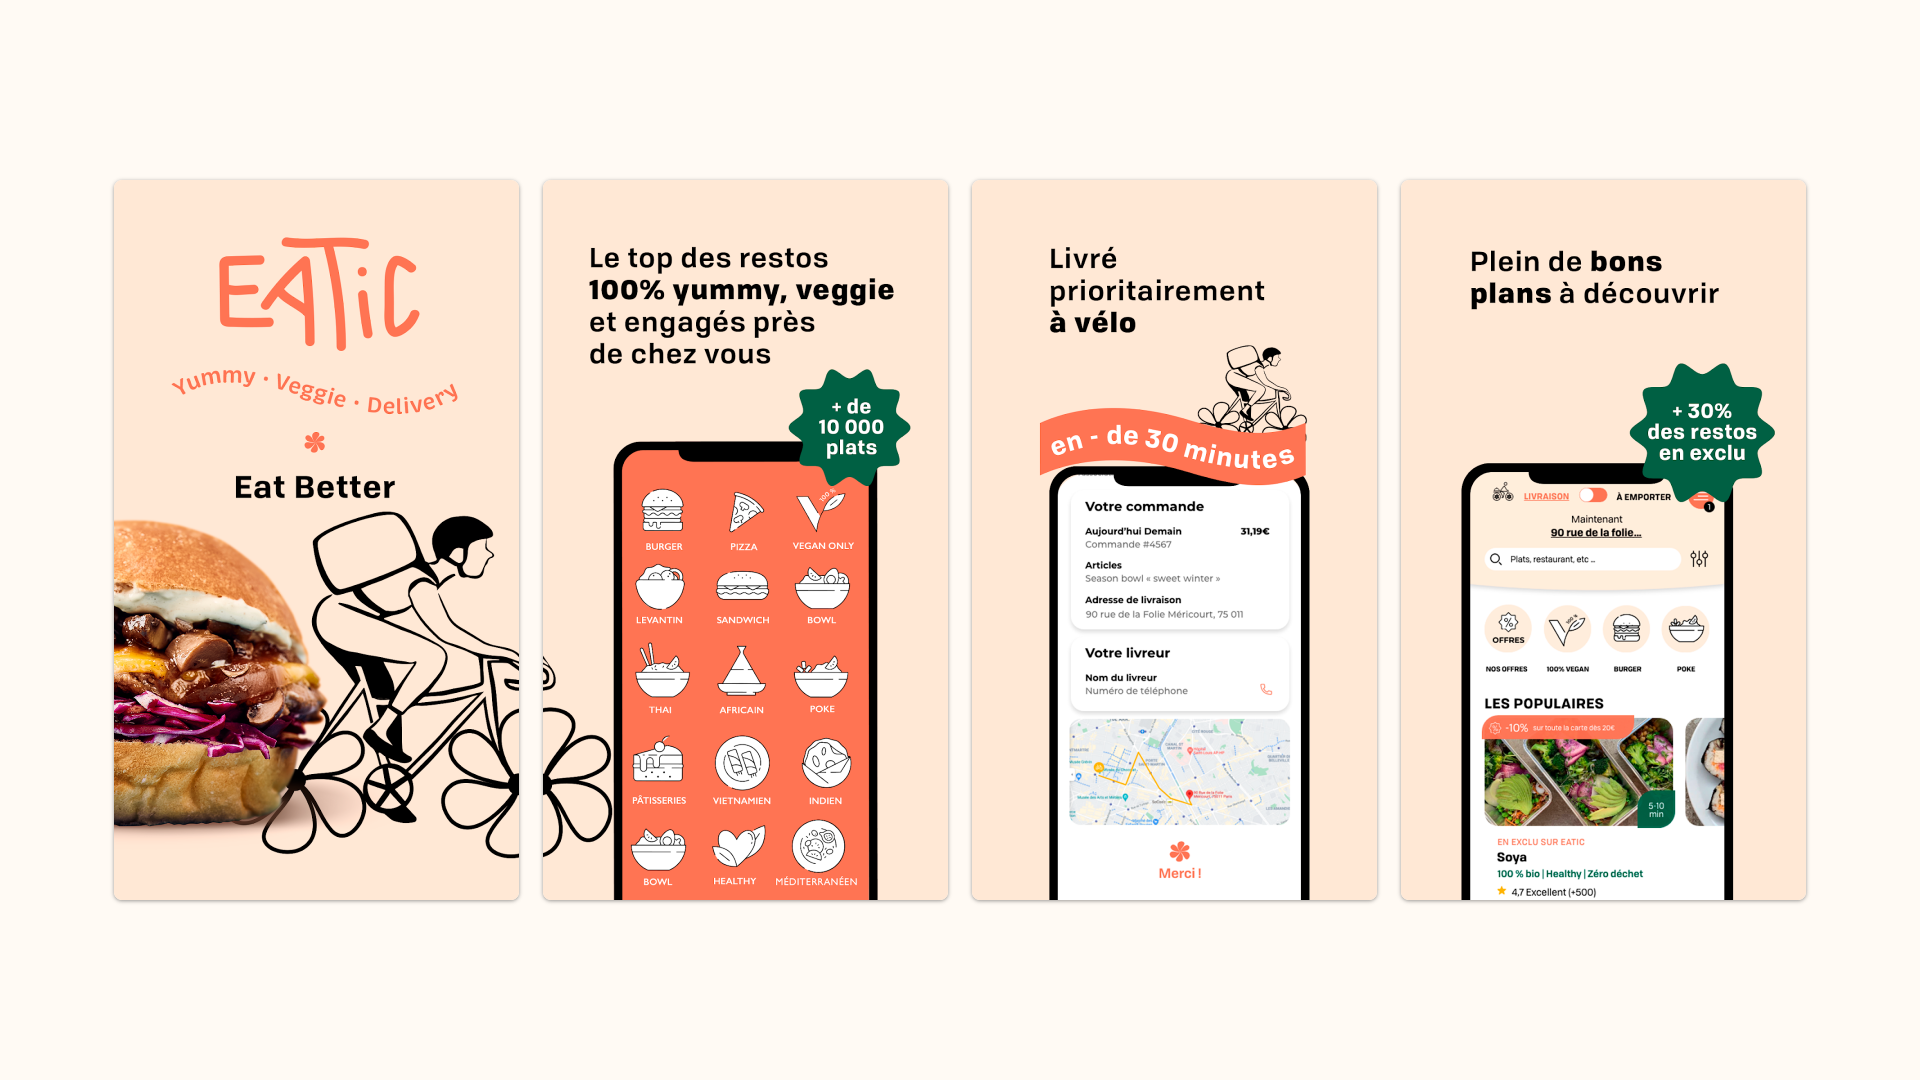
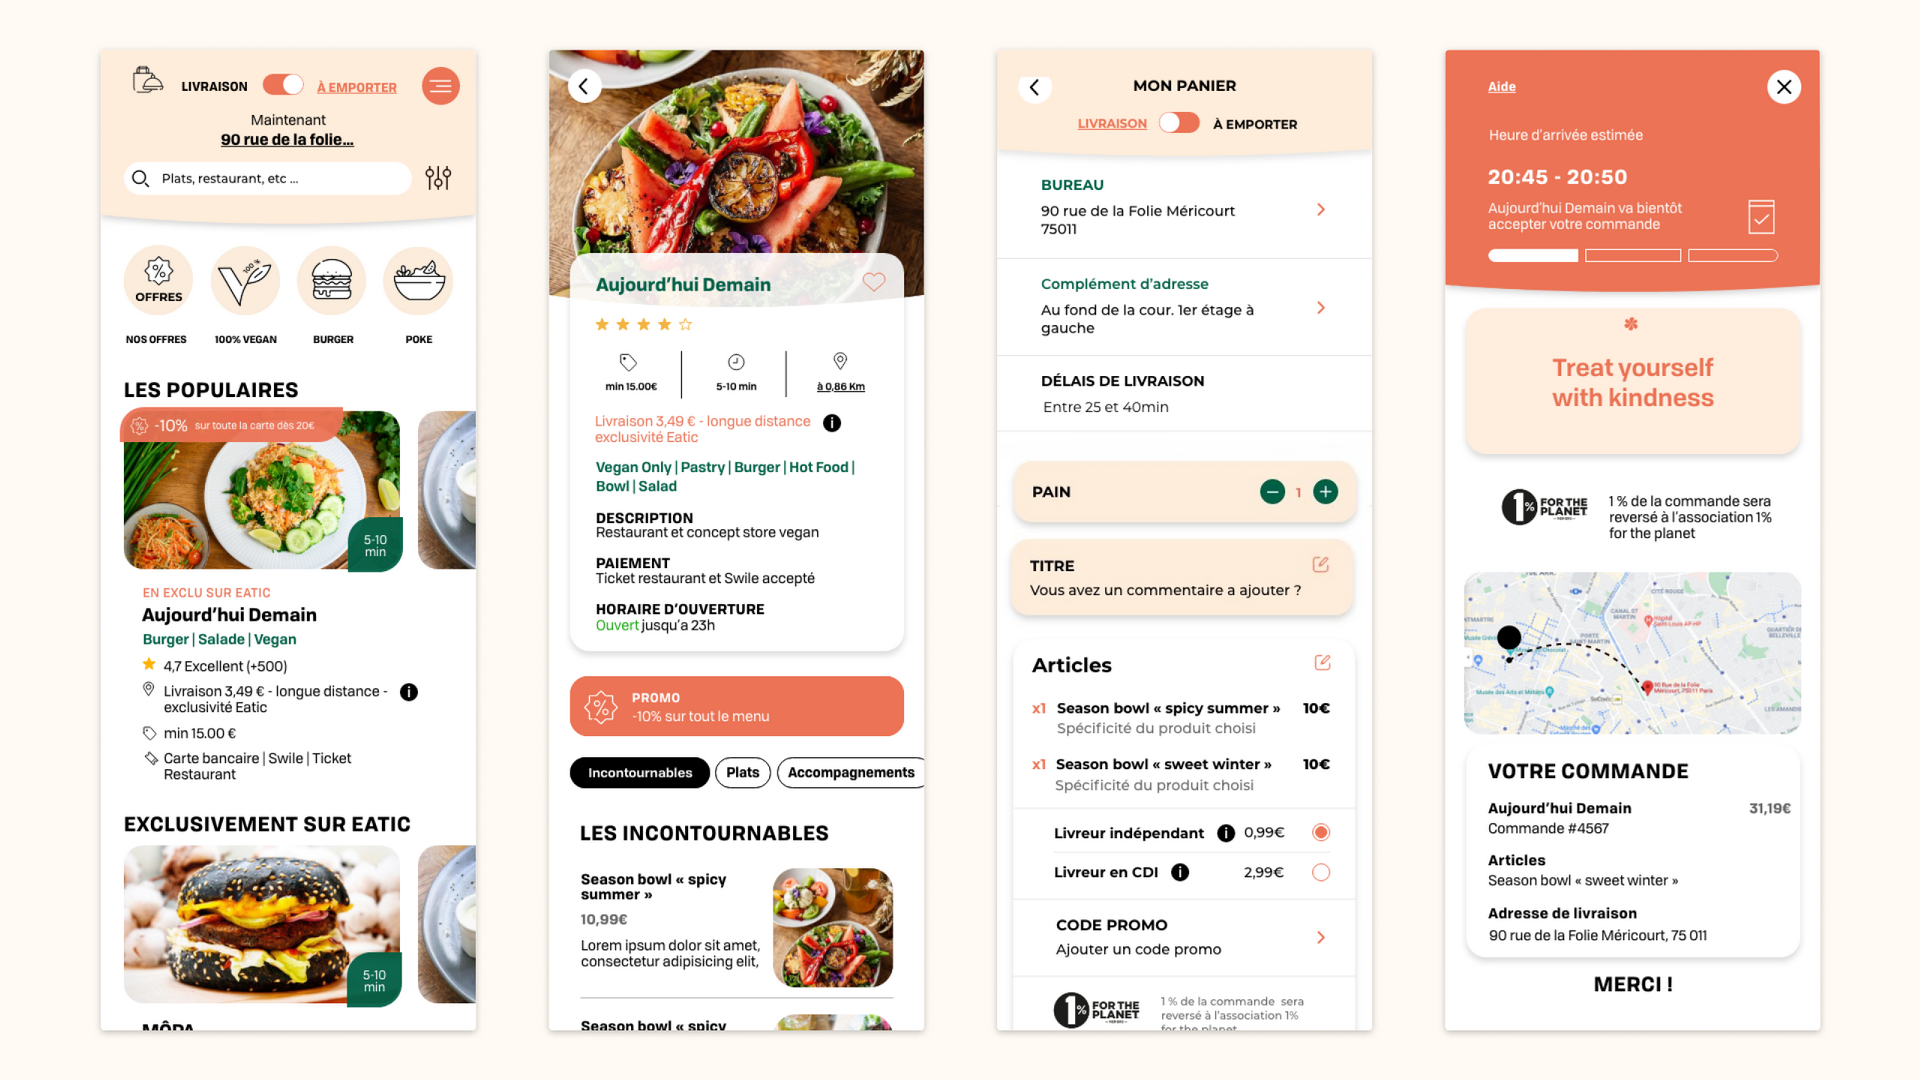
feat: add more projects

diff --git a/src/App.vue b/src/App.vue
@@ -32,17 +32,31 @@ resizeObserver.observe(document.body);
       <h2 class="text-3xl font-bold mb-16"><b class="text-4xl">P</b>rojets</h2>
       <div class="grid grid-cols-1 xl:grid-cols-2 gap-12">
         <Project
+          :images="['/projects/ttg_1.png', '/projects/ttg_2.png', '/projects/ttg_3.png', '/projects/ttg_4.png']"
+          title="Book a visit - Taittinger"
+          link="https://book-a-visit.taittinger.fr/"
+          description="Développement d'un site web de réservation en ligne"
+          :tags="['Typescript', 'Nuxt', 'NestJS', 'SQL', 'Stripe']"
+        />
+        <Project
           :images="['/projects/eatic.png']"
           title="Eatic"
           link="https://eatic.fr/"
           description="Développement d'une application web et mobile de livraison de repas végétarien"
-          :tags="['Typescript', 'Vue.js', 'Node.js', 'SQL', 'Paiement en ligne']"
+          :tags="['Typescript', 'Vue.js', 'Node.js', 'SQL', 'Stripe', 'Paygreen', 'Edenred']"
         />
         <Project
           :images="['/projects/baccarat_alchimie_1.png', '/projects/baccarat_alchimie_2.png', '/projects/baccarat_alchimie_3.png']"
           title="Baccarat - Alchimie"
           link="https://baccarat-heritage.com/fr/alchimie/"
-          description="Développement d'un thème Wordpress personnalisé."
+          description="Développement d'un thème Wordpress."
+          :tags="['Wordpress', 'ACF', 'Polylang', 'CSS']"
+        />
+        <Project
+          :images="['/projects/viking_1.png', '/projects/viking_2.png', '/projects/viking_3.png']"
+          title="Viking - Cités Immersives"
+          link="https://viking.cites-immersives.fr/fr"
+          description="Développement d'un thème Wordpress."
           :tags="['Wordpress', 'ACF', 'Polylang', 'CSS']"
         />
         <Project

diff --git a/src/components/Lettrine.vue b/src/components/Lettrine.vue
@@ -26,7 +26,7 @@
   transition: .1s all linear;
 }
 
-#lettrine:hover path:first-child {
+/* #lettrine:hover path:first-child {
   fill: var(--tertiary);
   transition: .1s all linear;
 }
@@ -34,5 +34,5 @@
 #lettrine:hover path:last-child {
   stroke: var(--tertiary);
   transition: .1s all linear;
-}
+} */
 </style>

diff --git a/src/components/Project.vue b/src/components/Project.vue
@@ -49,7 +49,8 @@ onMounted(() => {
       }
 
       .swiper-pagination-bullet {
-        background-color: var(--secondary);
+        opacity: 1 !important;
+        background-color: var(--tertiary);
       }
       `,
     ],
